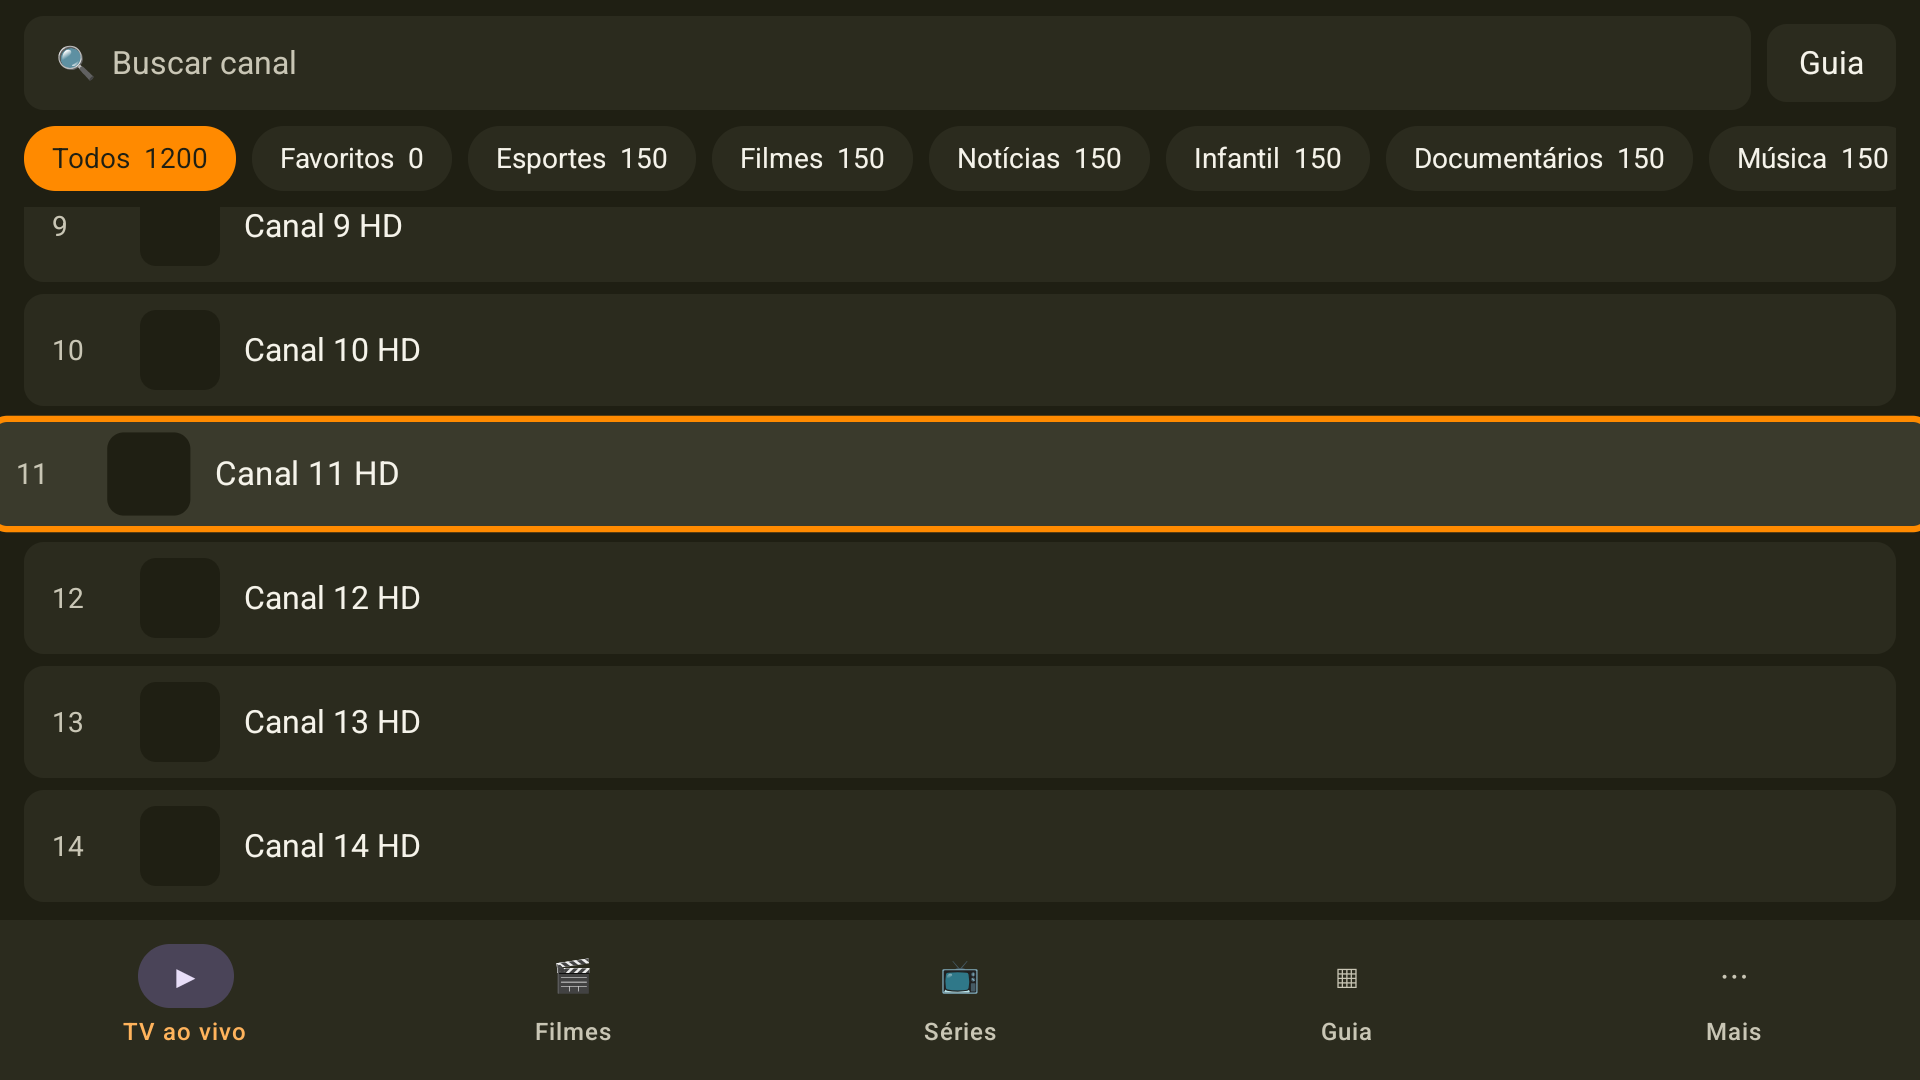
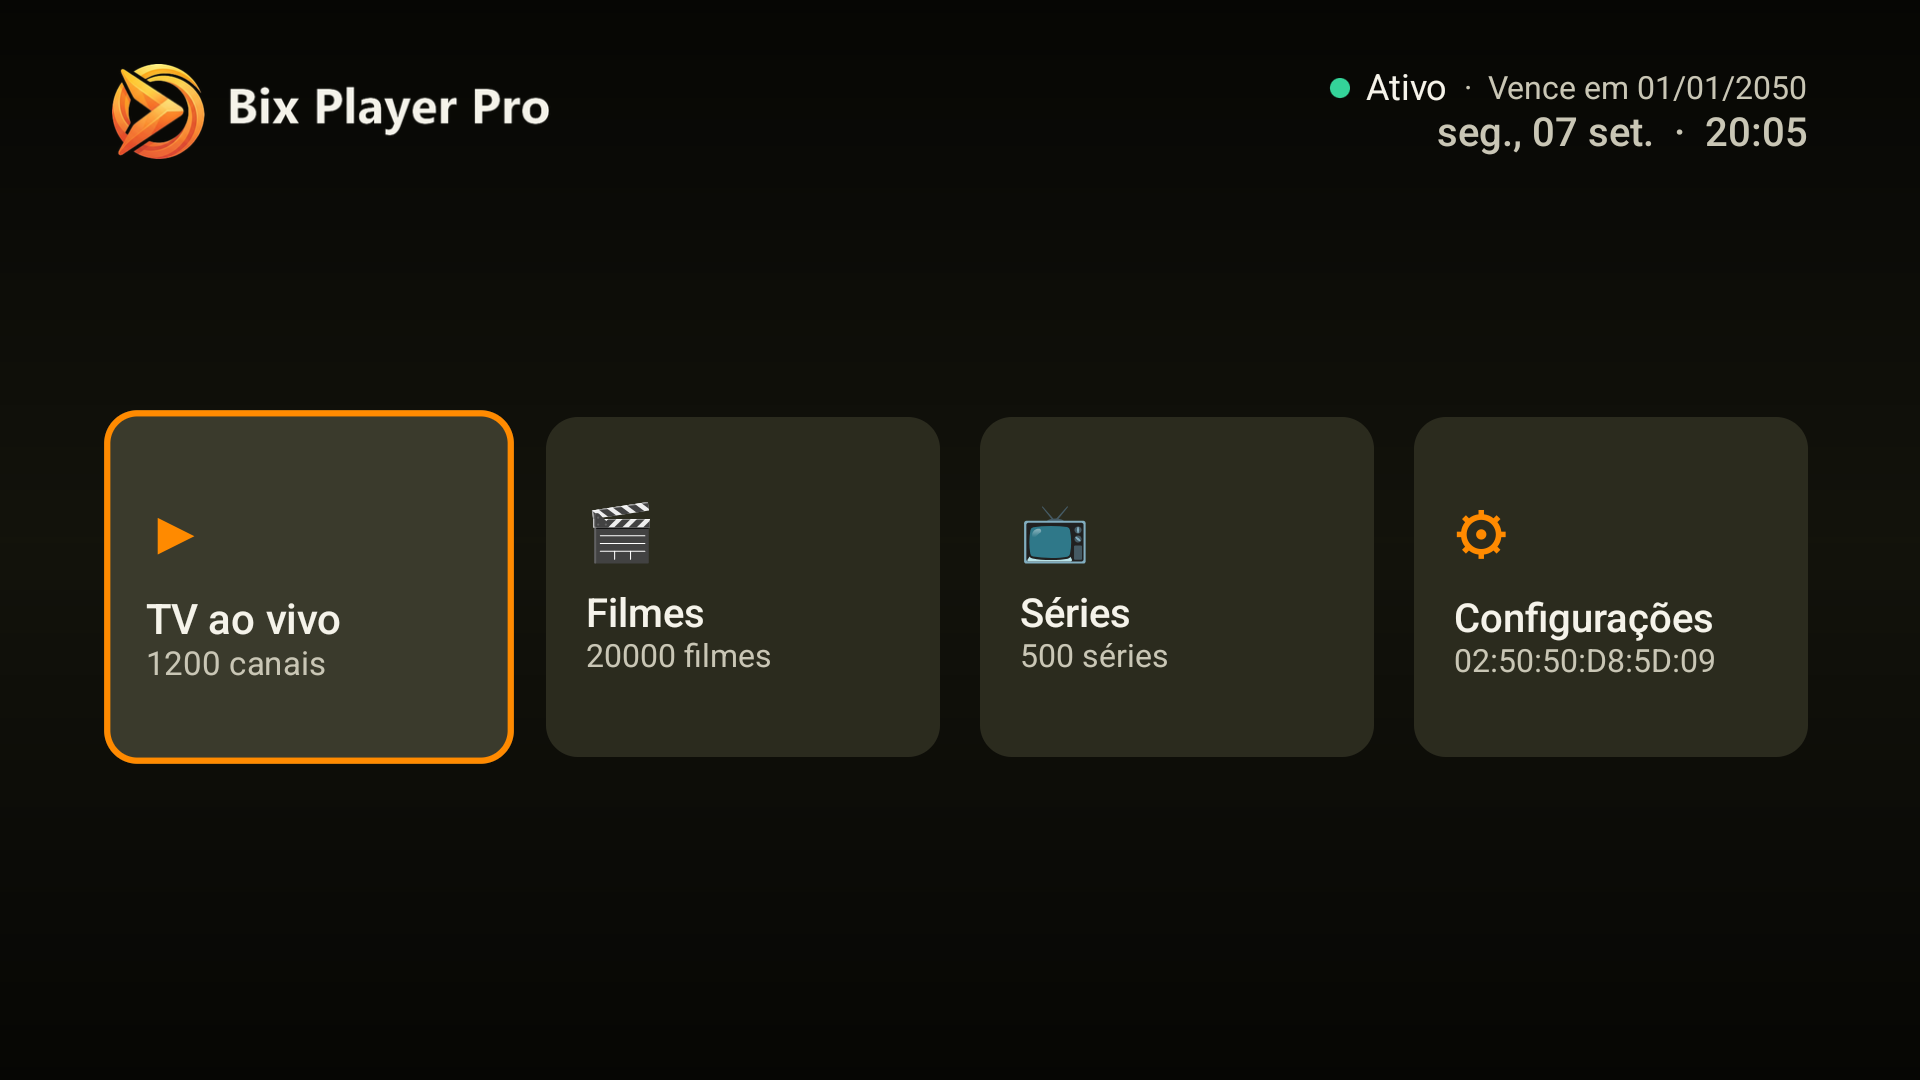
docs: M5-017 validation notes (emulator cannot drop touch devices), AVD rows in the hardware table

diff --git a/docs/M5-ISSUES.md b/docs/M5-ISSUES.md
@@ -25,7 +25,7 @@ Anexo I com desvio), **baixa** (cosmético, melhoria de robustez). Status: `aber
 | M5-014 | Hardware (cliente) | alta | Séries: clicar no episódio só seleciona; 2–3 cliques para reproduzir. Filmes: idem no "Assistir". | consequência do M5-017 (a box abria a UI de celular, que não tinha foco por D-pad). Mesmo assim endurecido na UI de TV: foco inicial com nova tentativa até ser concedido (`requestFocusWithRetry`), clique sempre no KEY UP do OK/ENTER no mesmo nó que tem o foco, sem `clickable` paralelo; teclas OK registradas no diagnóstico |
 | M5-015 | Cliente | média | Campo MAC sem máscara no painel. | corrigida — máscara `AA:BB:CC:DD:EE:FF` ao digitar e ao colar (com ou sem separadores), maiúsculas, 17 caracteres; `web/src/lib/mac.ts` |
 | M5-016 | Hardware (cliente) | baixa | Registrar em `ANDROID.md` o resultado do teste em hardware quando o cliente informar modelo e versão do Android. | aberta — aguarda modelo/Android da box (seção 12 do `ANDROID.md` reservada) |
-| M5-017 | Hardware (cliente) | crítica | Na TV box (Android AOSP, não Android TV) o D-pad não funciona e o cliente usa o modo mouse: o launcher dispara `LAUNCHER` e abria a `MobileActivity` (UI de toque). | corrigida (1.2.1) — entrada única `LaunchActivity` com os dois intent-filters; UI de TV quando `UiModeManager` = televisão, feature `leanback`/`television` ou **sem touchscreen**; override em Configurações → Modo de interface (Automático/TV/Celular), persistido; UI de celular navegável por D-pad como rede de segurança. Testado nos AVDs de TV, de celular e de celular sem touchscreen (simulando a box) |
+| M5-017 | Hardware (cliente) | crítica | Na TV box (Android AOSP, não Android TV) o D-pad não funciona e o cliente usa o modo mouse: o launcher dispara `LAUNCHER` e abria a `MobileActivity` (UI de toque). | corrigida (1.2.1) — entrada única `LaunchActivity` com os dois intent-filters; UI de TV quando `UiModeManager` = televisão, feature `leanback`/`television` ou **sem touchscreen**; override em Configurações → Modo de interface (Automático/TV/Celular), persistido; UI de celular navegável por D-pad (MENU leva o foco à barra inferior). Validado: AVD de TV → UI de TV, AVD de celular → UI de celular, ciclo Automático → TV → Celular → Automático pelo controle (a UI de celular rodando no AVD de TV só com D-pad). A simulação da box com `hw.touchScreen=no` **não** é possível no emulador: a imagem de sistema continua registrando dispositivos de toque virtio e declarando a feature; por isso a decisão está coberta por teste unitário (`UiModeDecisionTest`) com as combinações vistas em boxes AOSP, e o pacote de diagnóstico registra todos os sinais lidos (`ui_signals`) para conferir na box real |
 
 ## Como abrir uma issue
 

diff --git a/docs/ANDROID.md b/docs/ANDROID.md
@@ -409,6 +409,8 @@ celulares com notch.
 | Aparelho | Android | Chip / ABI | Release | Resultado |
 |---|---|---|---|---|
 | TV box do cliente (modelo a confirmar) | a confirmar (AOSP, sem leanback) | a confirmar | 1.2.0 | Abria a UI de celular (M5-017); D-pad só em modo mouse; fechamentos ao reproduzir filme (M5-013). Reteste com 1.2.1 pendente |
+| AVD `bix_tv_api36` | 16 (SDK 36) Android TV | x86_64 (+arm64 por tradução) | 1.2.1 | Entrada única abre a UI de TV; 1 OK toca filme e episódio; override Celular/Automático pelo controle; diagnóstico enviado e visível no admin |
+| AVD `Pixel_10_Pro_XL` | 16 (SDK 36) | x86_64 (+arm64) | 1.2.1 | Entrada única abre a UI de celular; D-pad navega a lista e toca canal com 1 OK; `hw.touchScreen=no` não remove o toque da imagem (ver M5-017) |
 
 Preencher com modelo, versão do Android, ABI (`Configurações → Enviar diagnóstico` inclui
 tudo isso no cabeçalho do pacote), tempo de sync da lista real, canais que caíram no VLC e
